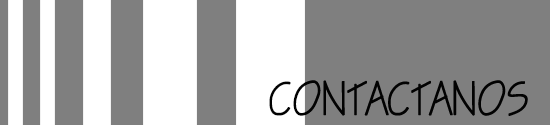
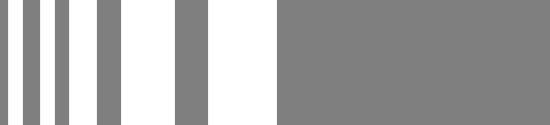
assad

Changed region(s): [[0.4636, 0.0, 0.9582, 1.0], [0.1236, 0.0, 0.2782, 1.0], [0.3091, 0.0, 0.4327, 1.0]]

diff --git a/css/app.css b/css/app.css
@@ -143,12 +143,12 @@ width:100%!important;
 [class*="imagenTitulo"] {
 
  	background:url('../img/contactanosMobil.png') no-repeat;
-    	height: 250px;
-    	color: #FFFFFF;
+    	height: 125px;
+    	color: #00000;
     	margin-bottom:100px;
-    	text-align: right;
-    	padding-right:250px;
-    	padding-top:50px;
+    	text-align: center;
+    	
+    	padding-top:20px;
     	background-attachment: fixed;
 
    	background-position: center top;
@@ -160,12 +160,12 @@ width:100%!important;
 	.imagenTitulo{
 
    	background:url('../img/contactanos2.png') no-repeat;
-    	height: 250px;
-    	color: #FFFFFF;
+    	height: 125px;
+    	color: #00000;
     	margin-bottom:100px;
-    	text-align: right;
-    	padding-right:250px;
-    	padding-top:50px;
+    	text-align: center;
+    
+    	padding-top:20px;
     	background-attachment: fixed;
 
    	background-position: center top;

diff --git a/contacto.html b/contacto.html
@@ -45,7 +45,7 @@
                 <div class="grid-container" style="padding-top: 45px;">
                     <div class="grid-x grid-padding-x">
                         <div class="large-12 cell gris imagenTitulo">
-                            <!--<h1>CONTACTANOS</h1>-->
+                            <h1>CONTACTANOS</h1>
                         </div>
                     </div>
 
